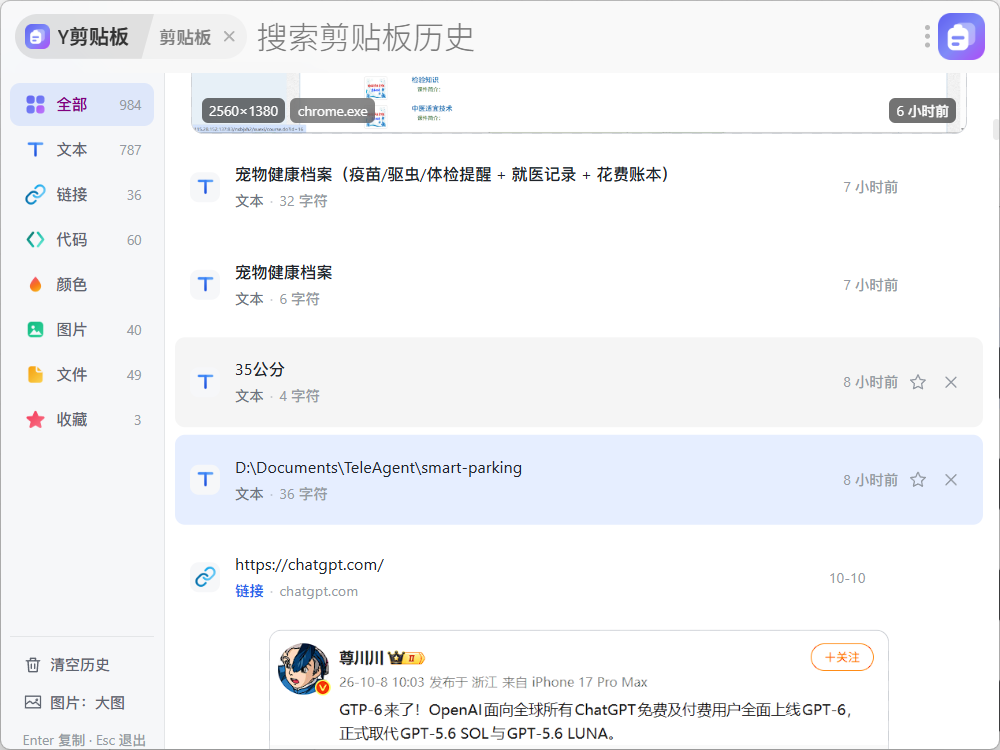
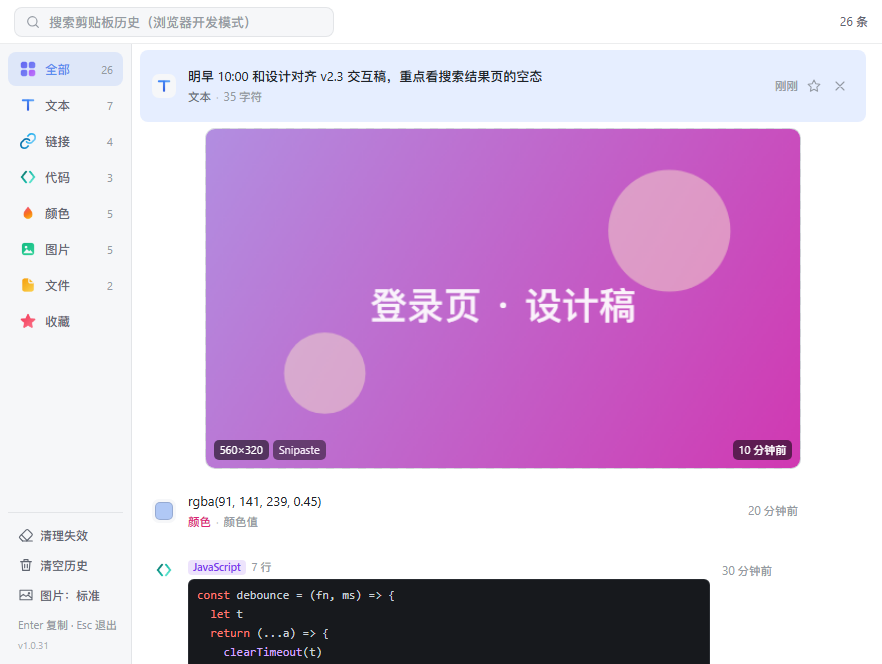
Update plugin 极速剪贴板 v1.0.32
1.0.32 - 2026-11-04

- **演示模式（`?demo=1`）**：开发服务器加该参数即使用一套专用的截图演示数据 ——
  全部为编造内容（假项目 Aurora、假路径 `C:\Users\demo`、假文案），图片用 canvas
  现画（渐变 + 标题）。README 的 8 张分类演示图全部来自该模式，不含任何真实信息。
  正常开发（不带参数）与插件产物不受影响。
- README 演示图更新：从 5 张（全部/代码/图片/文件/收藏）扩到 8 张（新增文本/链接/颜色），
  全部重拍。

diff --git a/plugins/fast-clipboard/src/api.ts b/plugins/fast-clipboard/src/api.ts
@@ -741,6 +741,92 @@ function buildMockData(): any[] {
 
 let mockDb = buildMockData()
 
+/* ------------------------------------------------------------------ */
+/* 演示模式（?demo=1）：README 截图专用                                  */
+/*                                                                      */
+/* 数据全是编的：假项目名（Aurora）、假路径（C:\Users\demo）、假文案，     */
+/* 图片用 canvas 现画（渐变 + 标题），不含任何真实信息。                  */
+/* ------------------------------------------------------------------ */
+
+/** 演示用假图片：渐变底 + 半透明圆 + 居中标题，按标题散列出不同色相 */
+function demoImage(title: string, w = 560, h = 320): string {
+  try {
+    const c = document.createElement('canvas')
+    c.width = w
+    c.height = h
+    const ctx = c.getContext('2d')
+    if (!ctx) return ''
+    const hue = [...title].reduce((n, ch) => n + ch.charCodeAt(0), 0) % 360
+    const g = ctx.createLinearGradient(0, 0, w, h)
+    g.addColorStop(0, `hsl(${hue}, 58%, 72%)`)
+    g.addColorStop(1, `hsl(${(hue + 46) % 360}, 62%, 52%)`)
+    ctx.fillStyle = g
+    ctx.fillRect(0, 0, w, h)
+    ctx.fillStyle = `hsla(${(hue + 120) % 360}, 70%, 88%, 0.5)`
+    ctx.beginPath()
+    ctx.arc(w * 0.78, h * 0.3, Math.min(w, h) * 0.18, 0, Math.PI * 2)
+    ctx.fill()
+    ctx.beginPath()
+    ctx.arc(w * 0.2, h * 0.72, Math.min(w, h) * 0.12, 0, Math.PI * 2)
+    ctx.fill()
+    ctx.fillStyle = 'rgba(255, 255, 255, 0.92)'
+    ctx.font = `600 ${Math.round(Math.min(w, h) * 0.11)}px "PingFang SC", "Microsoft YaHei", sans-serif`
+    ctx.textAlign = 'center'
+    ctx.textBaseline = 'middle'
+    ctx.fillText(title, w / 2, h * 0.52, w * 0.86)
+    return c.toDataURL('image/png')
+  } catch {
+    return ''
+  }
+}
+
+function buildDemoData(): any[] {
+  const now = Date.now()
+  const out: any[] = []
+  const mk = (o: any): void => {
+    const i = out.length
+    out.push({
+      id: 'demo-' + i,
+      hash: 'dh' + i,
+      timestamp: now - i * 9 * 60 * 1000 - (i % 5) * 61_000,
+      ...o
+    })
+  }
+
+  mk({ type: 'text', content: '明早 10:00 和设计对齐 v2.3 交互稿，重点看搜索结果页的空态', appName: 'VSCode' })
+  mk({ type: 'image', content: demoImage('登录页 · 设计稿'), resolution: '560 * 320', preview: '[图片] 46KB', appName: 'Snipaste' })
+  mk({ type: 'color', content: 'rgba(91, 141, 239, 0.45)' })
+  mk({ type: 'code', content: 'const debounce = (fn, ms) => {\n  let t\n  return (...a) => {\n    clearTimeout(t)\n    t = setTimeout(() => fn(...a), ms)\n  }\n}', appName: 'VSCode' })
+  mk({ type: 'link', content: 'https://developer.mozilla.org/zh-CN/docs/Web/CSS/color_value' })
+  mk({ type: 'file', files: [{ path: 'D:\\Projects\\Aurora\\docs\\架构方案-v2.docx', name: '架构方案-v2.docx', isDirectory: false, exists: true }], preview: '[文件] 架构方案-v2.docx' })
+  mk({ type: 'text', content: '取件码 7-3-2086（菜鸟驿站，今天 22:00 前取）', appName: '微信' })
+  mk({ type: 'image', content: demoImage('数据看板 · Q4', 560, 340), resolution: '560 * 340', preview: '[图片] 52KB', appName: 'Chrome' })
+  mk({ type: 'color', content: '#5B8DEF' })
+  mk({ type: 'code', content: 'def load(path: str) -> dict:\n    with open(path, encoding="utf-8") as f:\n        return json.load(f)', appName: 'VSCode' })
+  mk({ type: 'link', content: 'https://github.com/vuejs/core/releases' })
+  mk({ type: 'text', content: '验证码 824193（10 分钟内有效，请勿泄露）', appName: 'Chrome' })
+  mk({ type: 'image', content: demoImage('组件库 · 色板', 560, 300), resolution: '560 * 300', preview: '[图片] 41KB', appName: 'Snipaste' })
+  mk({ type: 'color', content: 'hsl(152, 69%, 31%)' })
+  mk({ type: 'text', content: '会议室已订：B2-天狼星 14:00-15:00（6 人，有投屏）', appName: '微信' })
+  mk({ type: 'file', files: [{ path: 'D:\\Projects\\Aurora\\assets\\banner-spring.png', name: 'banner-spring.png', isDirectory: false, exists: true }, { path: 'D:\\Projects\\Aurora\\assets\\banner-summer.png', name: 'banner-summer.png', isDirectory: false, exists: true }], preview: '[文件] 2 个文件' })
+  mk({ type: 'code', content: '.card {\n  padding: 12px 16px;\n  border-radius: 8px;\n  background: var(--panel);\n}', appName: 'VSCode' })
+  mk({ type: 'link', content: 'https://cn.vuejs.org/guide/introduction.html' })
+  mk({ type: 'image', content: demoImage('插画 · 春季活动', 560, 280), resolution: '560 * 280', preview: '[图片] 38KB', appName: 'Chrome' })
+  mk({ type: 'color', content: '#0F6E56' })
+  mk({ type: 'text', content: '依赖升级清单：vite 6.4 → 6.5，vue 3.5.13 → 3.5.14，ts 5.7 不动', appName: 'VSCode' })
+  mk({ type: 'text', content: '发票抬头：云栖科技有限公司 税号 91330106MA2XXXXX0A', appName: '微信' })
+  mk({ type: 'image', content: demoImage('图标集 · 线性 24px', 560, 320), resolution: '560 * 320', preview: '[图片] 44KB', appName: 'Snipaste' })
+  mk({ type: 'code', content: 'SELECT id, content, created_at\nFROM clipboard\nWHERE kind = \'code\'\nORDER BY created_at DESC\nLIMIT 50;', appName: 'DataGrip' })
+  mk({ type: 'color', content: '#E5484D' })
+  mk({ type: 'link', content: 'https://ztoolscenter.github.io/ZTools-doc/first-plugin.html' })
+
+  return out
+}
+
+const useDemoData =
+  typeof location !== 'undefined' && location.search.includes('demo=1')
+mockDb = useDemoData ? buildDemoData() : mockDb
+
 /** 开发模式下最后一次"要交给浏览器打开"的网址（见 mock.openExternal） */
 let lastExternalUrl = ''
 export const devLastExternalUrl = (): string => lastExternalUrl

diff --git a/plugins/fast-clipboard/README.md b/plugins/fast-clipboard/README.md
@@ -6,22 +6,36 @@
 
 ## 演示
 
+> 截图均来自演示模式（开发服务器加 `?demo=1`），数据全部是编造的假数据，不包含任何真实信息。
+
 ### 全部
 
-![preview-all](design/preview-all.png)
+![全部分类](design/preview-all.png)
+
+### 文本
+
+![文本分类](design/preview-text.png)
+
+### 链接
+
+![链接分类](design/preview-link.png)
 
 ### 代码
 
-![preview-code](design/preview-code.png)
+![代码分类](design/preview-code.png)
+
+### 颜色
+
+![颜色分类](design/preview-color.png)
 
 ### 图片
 
-![preview-image](design/preview-image.png)
+![图片分类](design/preview-image.png)
 
 ### 文件
 
-![preview-file](design/preview-file.png)
+![文件分类](design/preview-file.png)
 
 ### 收藏
 
-![preview-favorite](design/preview-favorite.png)
+![收藏分类](design/preview-favorite.png)

diff --git a/plugins/fast-clipboard/CHANGELOG.md b/plugins/fast-clipboard/CHANGELOG.md
@@ -1,5 +1,15 @@
 # Changelog
 
+## 1.0.32 - 2026-11-04
+
+- **演示模式（`?demo=1`）**：开发服务器加该参数即使用一套专用的截图演示数据 ——
+  全部为编造内容（假项目 Aurora、假路径 `C:\Users\demo`、假文案），图片用 canvas
+  现画（渐变 + 标题）。README 的 8 张分类演示图全部来自该模式，不含任何真实信息。
+  正常开发（不带参数）与插件产物不受影响。
+- README 演示图更新：从 5 张（全部/代码/图片/文件/收藏）扩到 8 张（新增文本/链接/颜色），
+  全部重拍。
+
+
 ## 1.0.31 - 2026-11-04
 
 - **颜色分类纳入 rgb/rgba/hsl/hsla**：此前只认 `#hex`，复制 `rgb(255, 0, 0)` 这类
